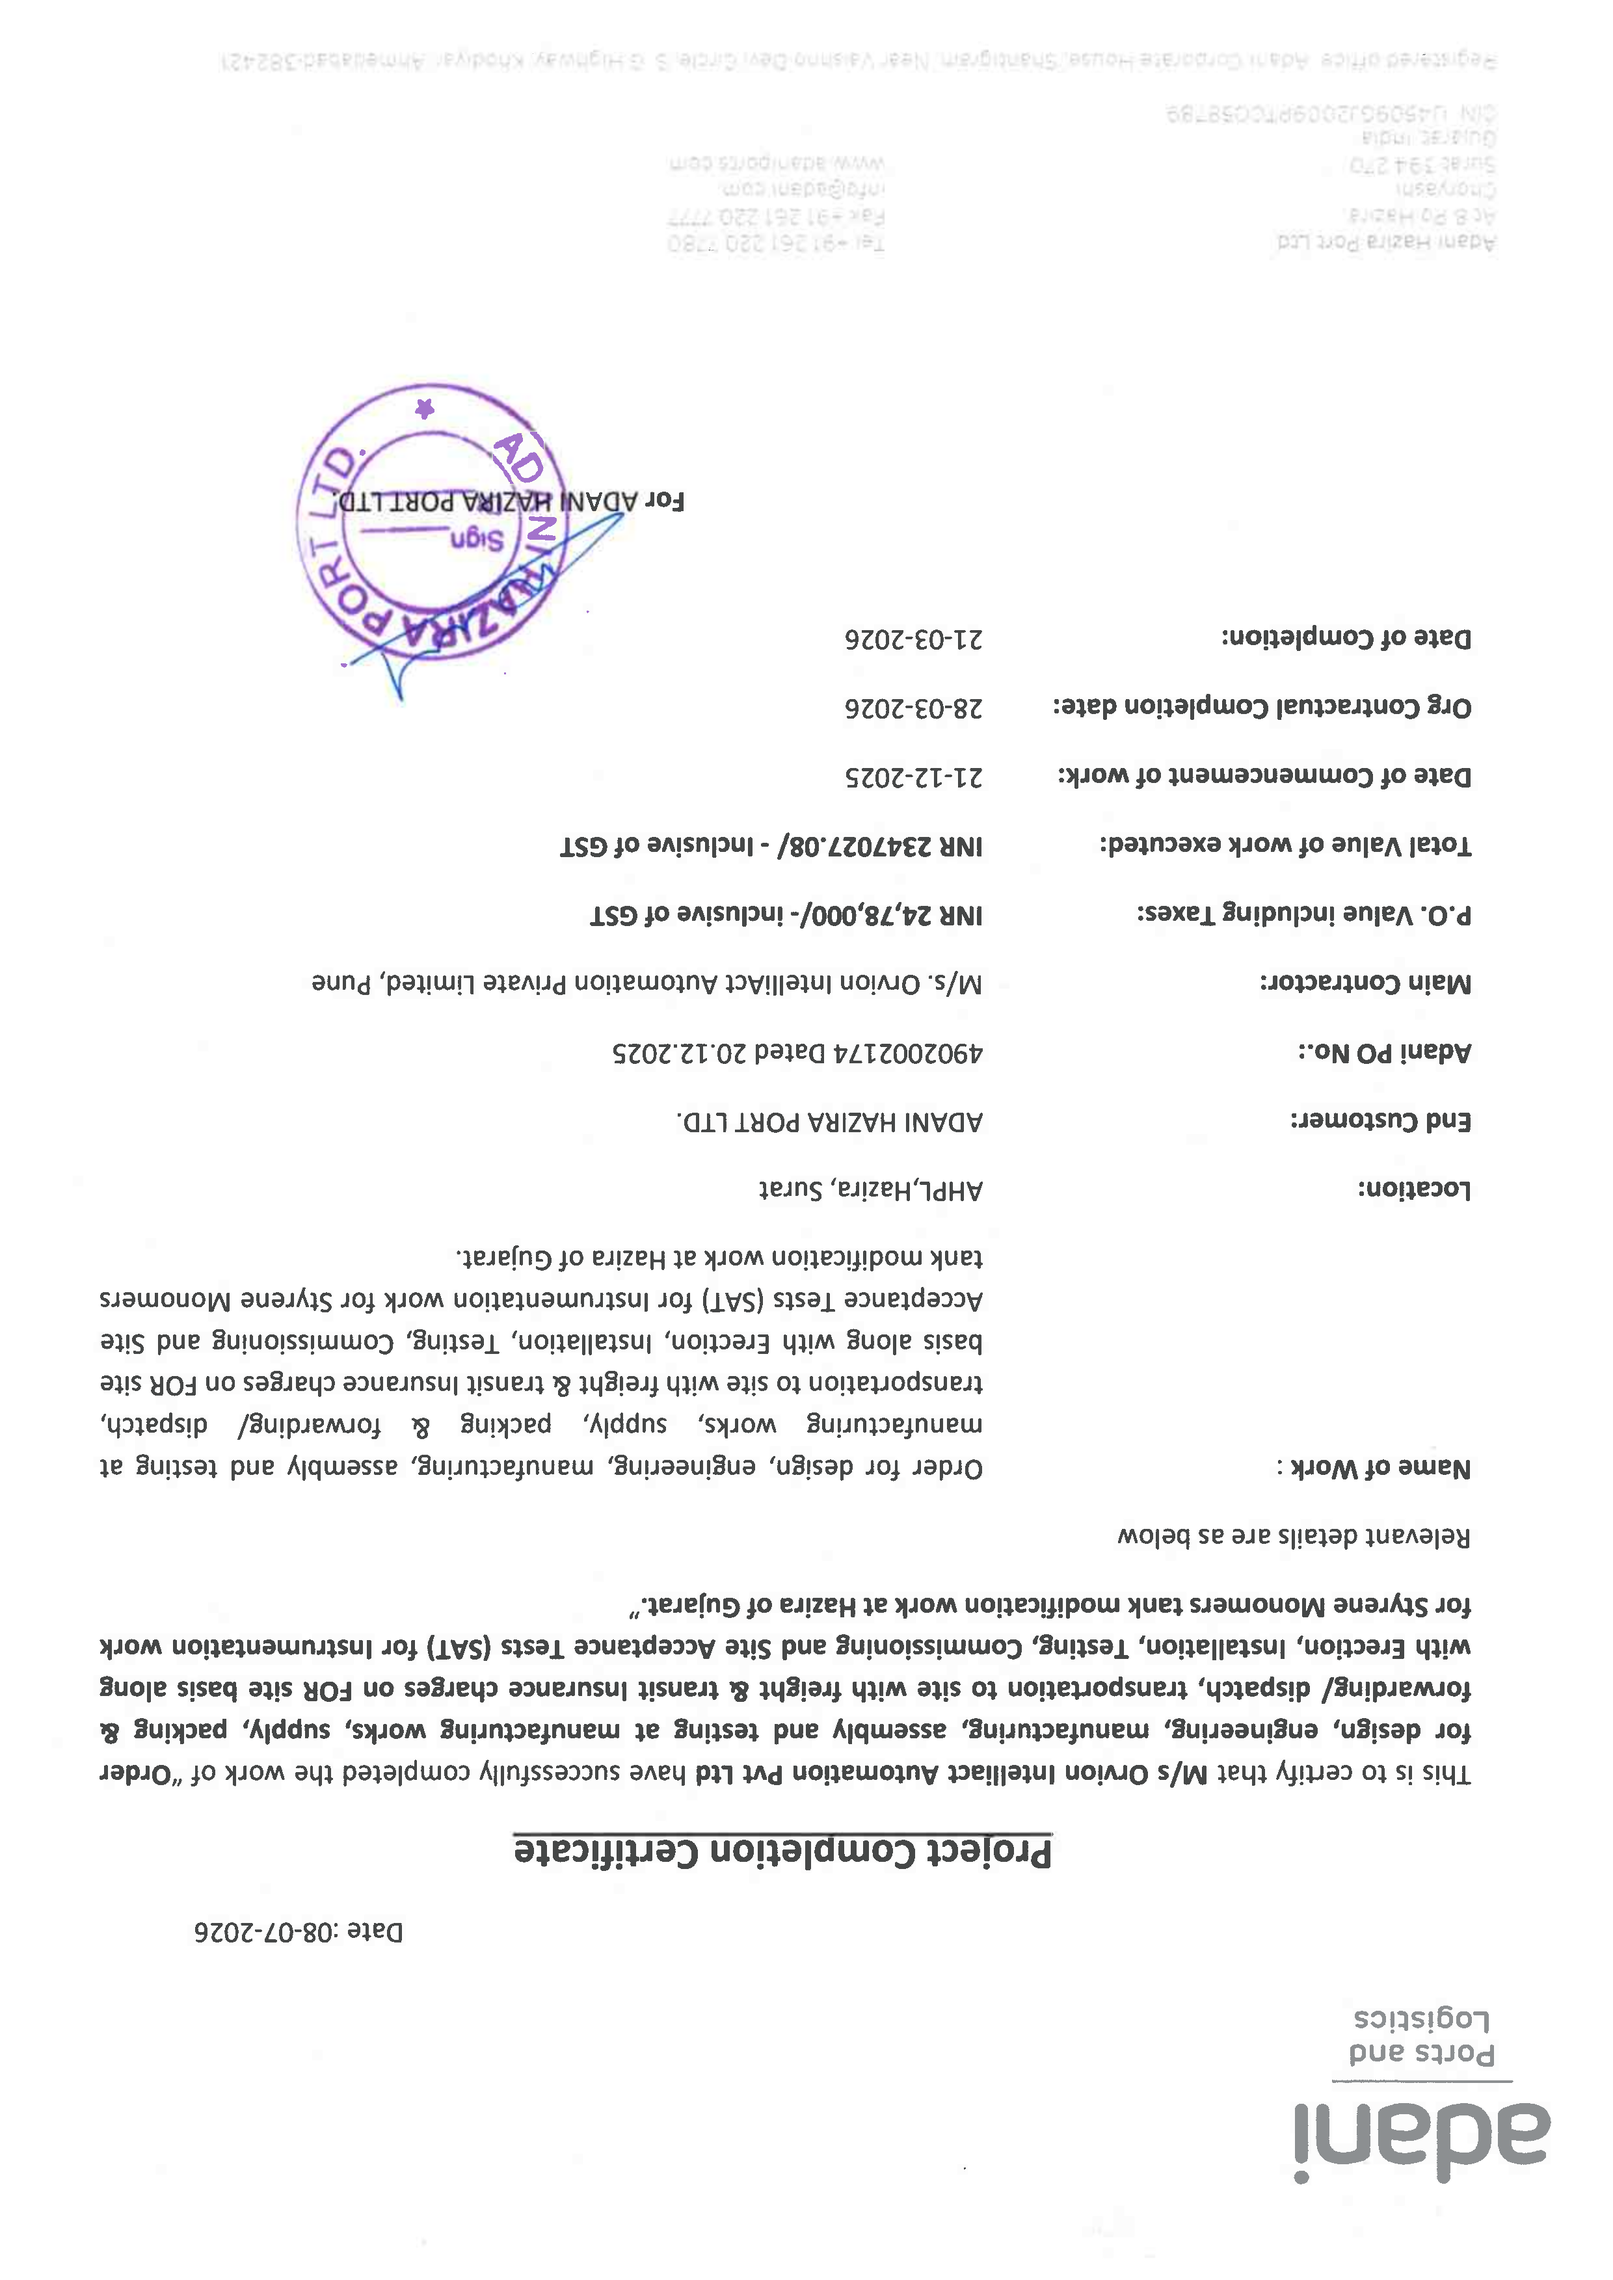
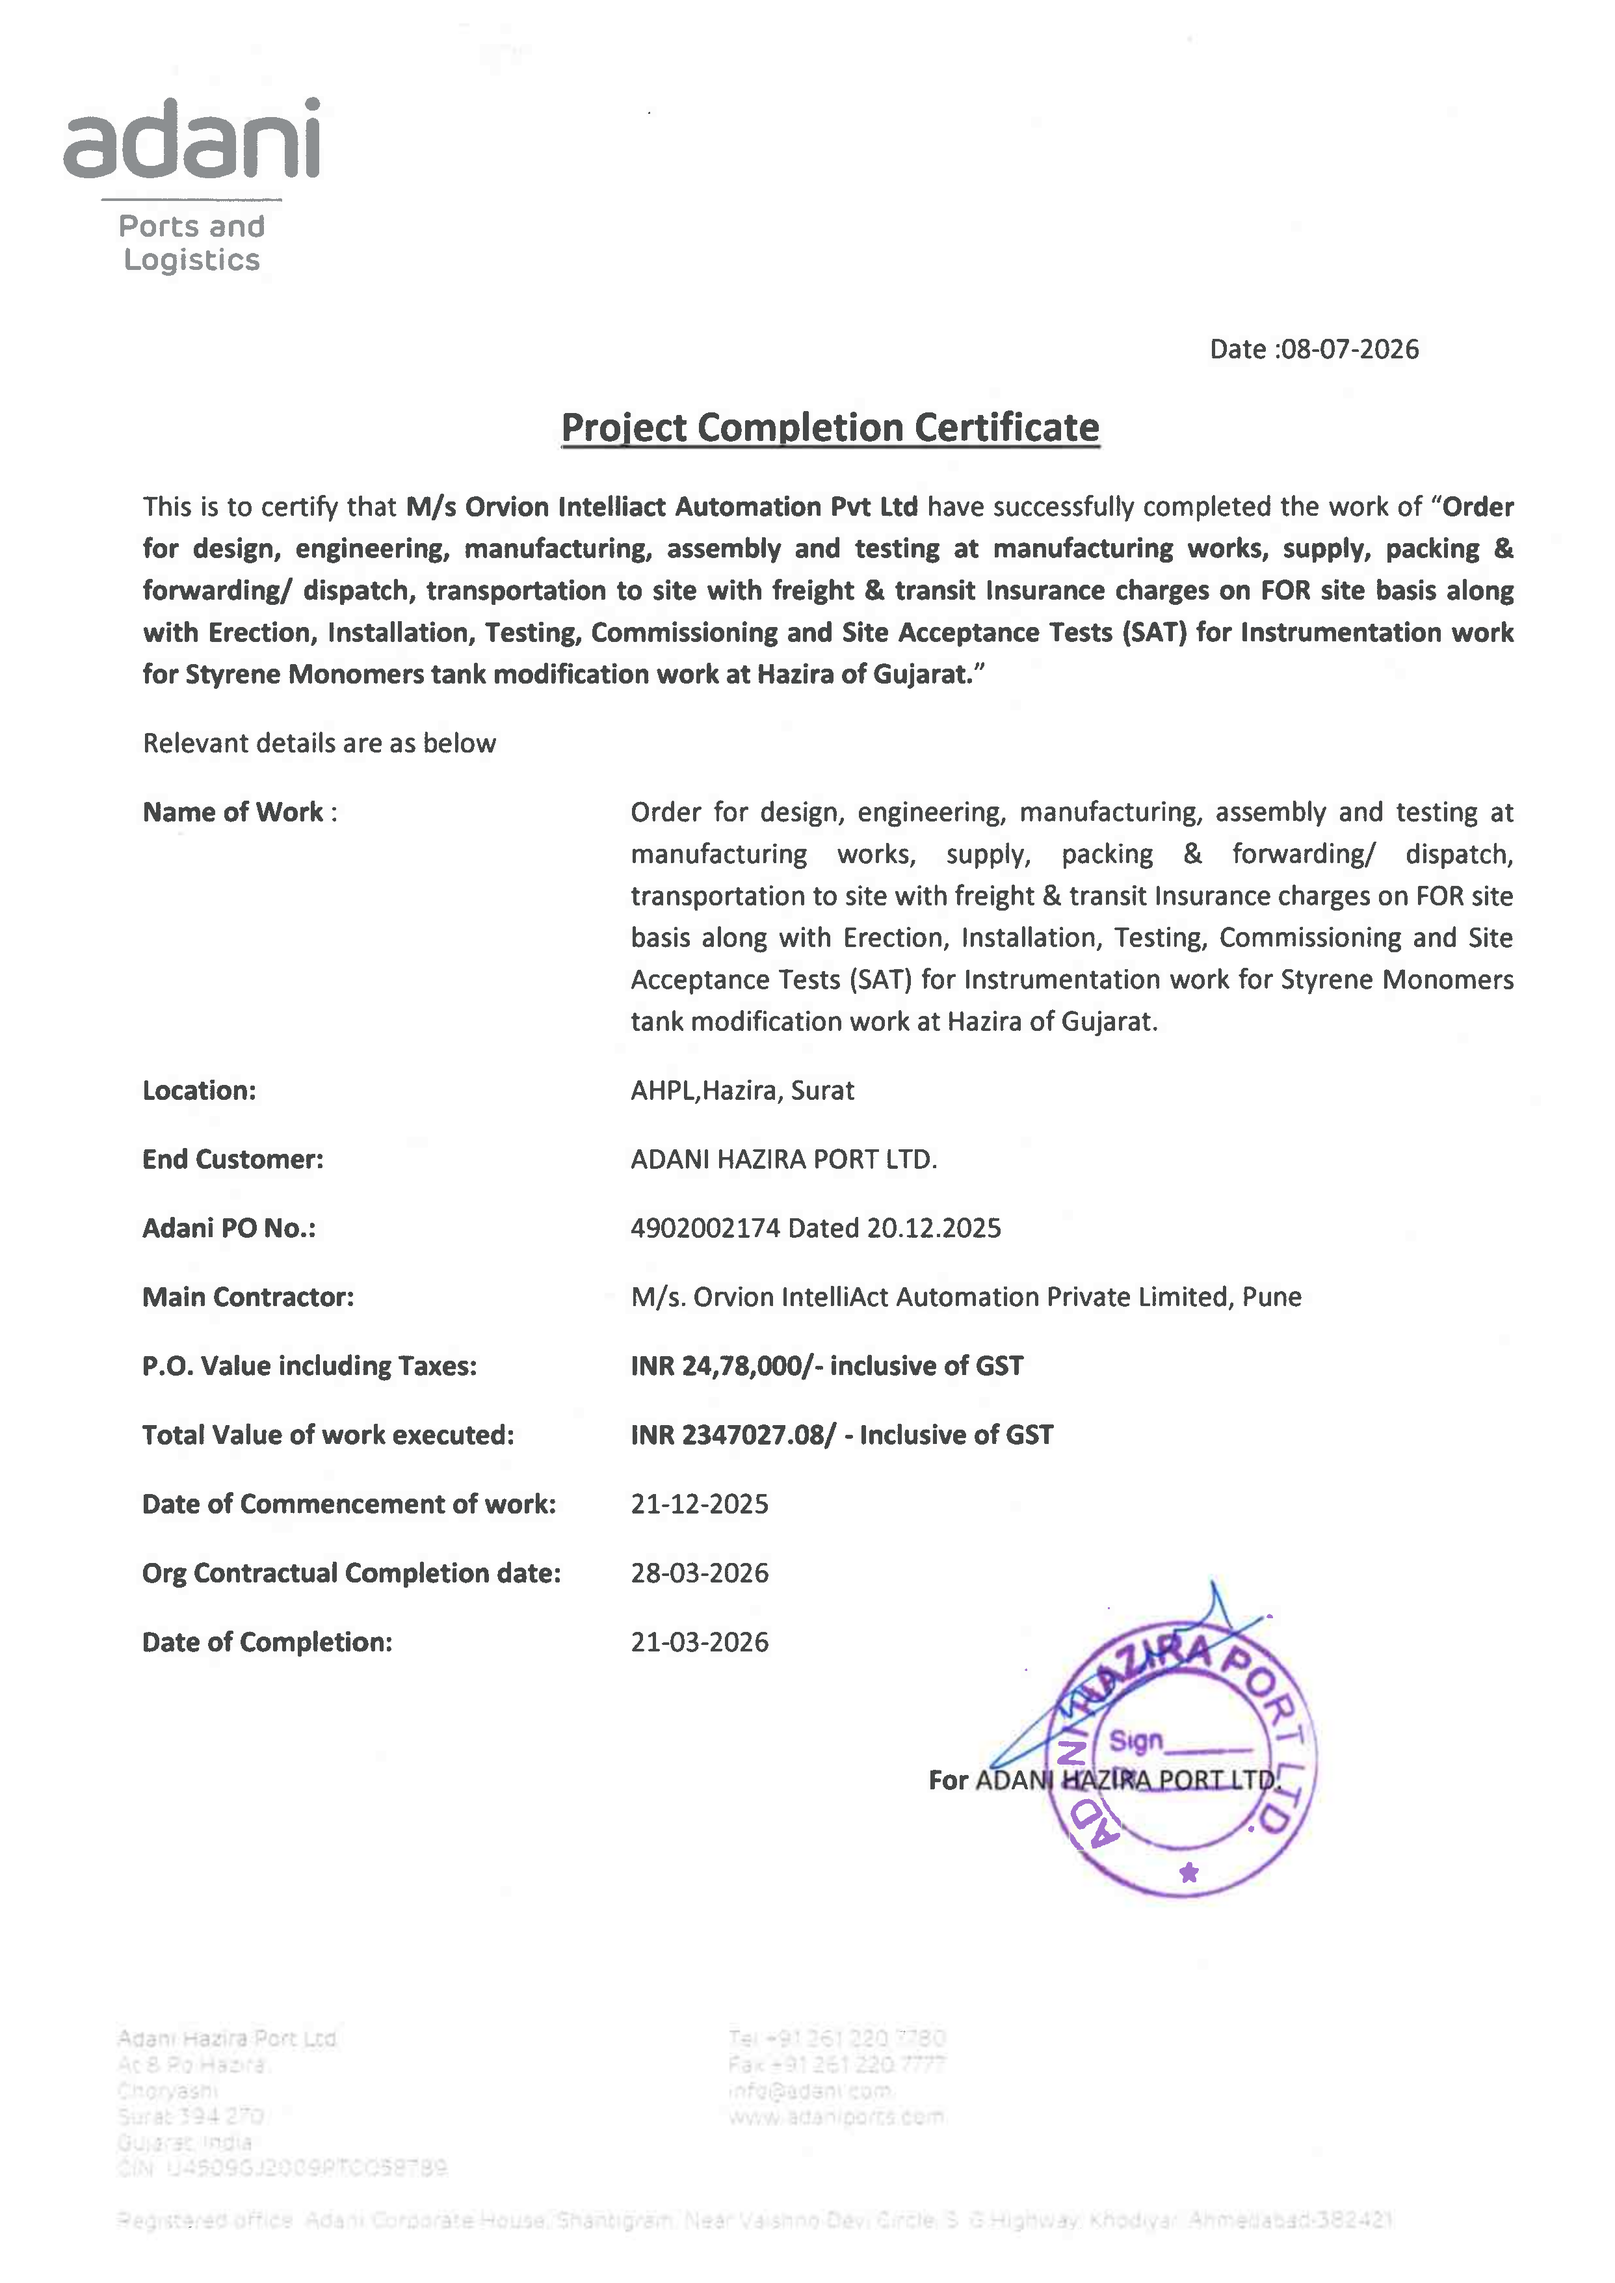
Fix Adani Hazira Port certificate orientation and name

diff --git a/lib/company-data.js b/lib/company-data.js
@@ -219,7 +219,7 @@ export const companyPages = [
         {
           "title": "Adani Hazira Port",
           "text": "Certificate of successful project completion for contract 4902002174.",
-          "image": "/images/projects/completion-certificate-4902002174-v2.jpg",
+          "image": "/images/projects/completion-certificate-4902002174-v4.jpg",
           "items": []
         },
         {
